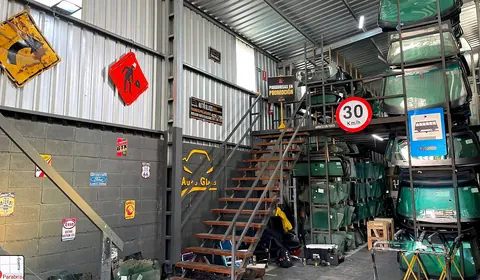
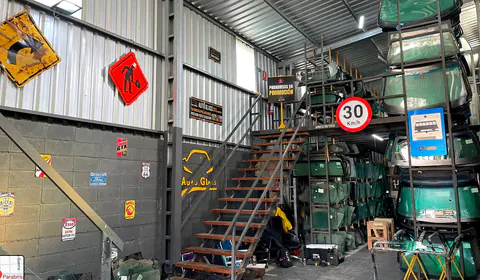
Correcciones: fotos HD, matrículas censuradas y simulador
- Fotos mejoradas a HD con super-resolución ESRGAN (UpscalerJS) y un
  acabado suave; nuevas versiones de 1440 y 1920 px.
- Matrículas difuminadas (Saveiro, Camaro, fachada y autos de fondo),
  también en la imagen para compartir.
- Simulador: el polarizado se actualiza al instante al elegir el tono
  (antes había que mover el auto); se quitan Tipo de lámina e Incluir
  parabrisas hasta tener información real.
- Se quitan las rayitas antes de los títulos de sección.

diff --git a/src/components/simulator/SimulatorSection.tsx b/src/components/simulator/SimulatorSection.tsx
@@ -5,7 +5,7 @@ import { useCallback, useEffect, useRef, useState } from 'react';
 import { useReducedMotionPref } from '@/components/ui/useMediaQuery';
 import model from '@/data/model.json';
 import { business } from '@/data/business';
-import { FILM_TYPES, TINT_LEVELS } from '@/data/options';
+import { TINT_LEVELS } from '@/data/options';
 import { useQuote } from '@/components/quote/QuoteContext';
 import { Reveal, SectionHeading } from '@/components/ui/Reveal';
 import { IconArrowRight, IconChevronLeft, IconChevronRight, IconEye, IconRotate, IconWhatsApp, IconX } from '@/components/ui/Icons';
@@ -181,7 +181,7 @@ export function SimulatorSection() {
               Mirá cómo te queda <span className="text-brand">antes de decidir</span>
             </>
           }
-          intro="Girá el auto, elegí el tono y la lámina, y mirá desde el asiento del conductor. También podés ver cómo queda un parabrisas cambiado."
+          intro="Girá el auto, elegí el tono de polarizado y mirá desde el asiento del conductor. También podés ver cómo queda un parabrisas cambiado."
         />
 
         <div className="grid gap-6 lg:grid-cols-[1.6fr_1fr]">
@@ -333,37 +333,6 @@ export function SimulatorSection() {
               </p>
             </div>
 
-            <div>
-              <h3 id="lamina-label" className="font-display text-xl font-bold uppercase tracking-wide">
-                Tipo de lámina
-              </h3>
-              <div role="radiogroup" aria-labelledby="lamina-label" className="mt-3 flex flex-wrap gap-2">
-                {FILM_TYPES.map((f) => (
-                  <button key={f.value} type="button" role="radio" aria-checked={state.film === f.value} className="chip" onClick={() => update({ film: f.value })}>
-                    {f.label}
-                  </button>
-                ))}
-              </div>
-              <p className="mt-2 text-sm text-mist">{FILM_TYPES.find((f) => f.value === state.film)?.description}</p>
-            </div>
-
-            <div>
-              <label className="flex min-h-11 cursor-pointer items-center justify-between gap-4">
-                <span className="font-semibold">Incluir parabrisas</span>
-                <input
-                  type="checkbox"
-                  role="switch"
-                  checked={state.includeWindshield}
-                  onChange={(e) => update({ includeWindshield: e.target.checked })}
-                  className="peer sr-only"
-                />
-                <span
-                  aria-hidden
-                  className="relative h-7 w-12 shrink-0 rounded-full bg-steel transition-colors peer-checked:bg-brand peer-focus-visible:outline-3 peer-focus-visible:outline-offset-2 peer-focus-visible:outline-brand after:absolute after:top-1 after:left-1 after:h-5 after:w-5 after:rounded-full after:bg-snow after:transition-transform peer-checked:after:translate-x-5"
-                />
-              </label>
-              <p className="mt-1 text-sm text-mist">El polarizado del parabrisas está regulado. Consultanos qué está permitido.</p>
-            </div>
 
             <div className="grid gap-2 sm:grid-cols-2 lg:grid-cols-1 xl:grid-cols-2">
               {state.view === 'interior' ? (
@@ -411,7 +380,6 @@ export function SimulatorSection() {
                   openQuote({
                     service: 'Polarizado',
                     tint: state.tint === 'none' ? 'asesoramiento' : state.tint,
-                    film: state.film,
                     glassScope: 'laterales-luneta',
                     source: 'simulador',
                   })

diff --git a/scripts/upscale/index.html b/scripts/upscale/index.html
@@ -1,0 +1,26 @@
+<!doctype html>
+<html>
+  <head>
+    <meta charset="utf-8" />
+    <script src="/node_modules/@tensorflow/tfjs/dist/tf.min.js"></script>
+    <script src="/node_modules/upscaler/dist/browser/umd/upscaler.min.js"></script>
+    <script src="/node_modules/@upscalerjs/esrgan-thick/dist/umd/models/esrgan-thick/src/x2/index.min.js"></script>
+    <script src="/node_modules/@upscalerjs/esrgan-thick/dist/umd/models/esrgan-thick/src/x3/index.min.js"></script>
+    <script src="/node_modules/@upscalerjs/esrgan-thick/dist/umd/models/esrgan-thick/src/x4/index.min.js"></script>
+  </head>
+  <body>
+    <script>
+      const defs = { 2: ESRGANThick2x, 3: ESRGANThick3x, 4: ESRGANThick4x };
+      const cache = {};
+      window.upscaleImage = async (src, scale) => {
+        if (!cache[scale]) {
+          const d = defs[scale];
+          cache[scale] = new Upscaler({ model: { ...d, path: `/node_modules/@upscalerjs/esrgan-thick/models/x${scale}/model.json` } });
+          await cache[scale].getModel();
+        }
+        return cache[scale].upscale(src, { output: 'base64', patchSize: 96, padding: 6, awaitNextFrame: true });
+      };
+      window.ready = true;
+    </script>
+  </body>
+</html>

diff --git a/src/components/simulator/CarScene.tsx b/src/components/simulator/CarScene.tsx
@@ -132,6 +132,13 @@ function Car({ url, state, capture, onLoaded }: { url: string; state: SimState; 
 
   useEffect(() => onLoaded(mats), [mats, onLoaded]);
 
+  // Con frameloop="demand" hay que pedir un cuadro cuando cambia el tono;
+  // si no, el cambio recién se veía al mover el auto.
+  const invalidate = useThree((s) => s.invalidate);
+  useEffect(() => {
+    invalidate();
+  }, [state.tint, state.film, state.includeWindshield, invalidate]);
+
   // Transición suave del tono
   const targetColor = useMemo(() => new THREE.Color(), []);
   useFrame((s, dt) => {

diff --git a/src/app/globals.css b/src/app/globals.css
@@ -86,13 +86,6 @@
     text-transform: uppercase;
     color: var(--color-brand);
   }
-  .eyebrow::before {
-    content: '';
-    width: 1.75rem;
-    height: 3px;
-    background: var(--color-brand);
-    transform: skewX(-20deg);
-  }
 
   /* Botones */
   .btn {

diff --git a/README.md b/README.md
@@ -55,18 +55,27 @@ Si `worksWithInsurance` o `homeService` se ponen en `false`, se ocultan solos el
 
 ## Fotos
 
-Las fotos originales van en `Fotos/` (**no se suben al repositorio**). El script las recorta, les sube un poco el contraste y genera WebP en varios anchos en `public/img/`, junto con el manifiesto `src/data/images.json`, el favicon y la imagen para compartir (`public/og-image.jpg`).
+Las fotos originales van en `Fotos/` (**no se suben al repositorio**). La lista de fotos, con su recorte, el factor de mejora y las matrículas a censurar, está en `scripts/images.config.mjs`.
 
-```bash
-npm run images
-```
+1. **Mejora a HD (opcional):** las fotos actuales son capturas de Instagram y Maps. Se les aplica super-resolución con ESRGAN (UpscalerJS, en la GPU vía Playwright) y quedan en `Fotos/hd/<name>.png`. Las dependencias están aparte para no cargar el build de Netlify:
+   ```bash
+   cd scripts/upscale && npm install && cd ../..
+   node --max-old-space-size=6144 scripts/upscale/run.mjs            # todas
+   node --max-old-space-size=6144 scripts/upscale/run.mjs hero-colocacion   # una sola
+   ```
+2. **Procesar:**
+   ```bash
+   npm run images
+   ```
+   Usa la versión HD si existe y, si no, el recorte de la captura. Les da un acabado suave (contraste y nitidez), **difumina las matrículas** y genera WebP de 480 a 1920 px en `public/img/`. También genera `src/data/images.json`, el favicon y `public/og-image.jpg`.
 
 **Para agregar o reemplazar una foto:**
 
 1. Copiá el archivo a `Fotos/`.
-2. En `scripts/process-images.mjs`, agregá o editá la entrada `{ name, source, crop }`. Si la foto es original (no es una captura), sacá `crop`.
-3. Corré `npm run images`.
-4. Usá el `name` en `src/data/services.ts` o `src/data/gallery.ts`.
+2. Agregá o editá su entrada en `scripts/images.config.mjs`. Si es una foto original y no una captura, sacá `crop` y `scale`.
+3. Si se ven matrículas, agregá `plates: [{ x, y, w, h }]`, en fracciones de 0 a 1 de la imagen.
+4. Corré `npm run images`.
+5. Usá el `name` en `src/data/services.ts` o `src/data/gallery.ts`.
 
 No repitas una misma foto en dos secciones.
 
@@ -81,6 +90,7 @@ No repitas una misma foto en dos secciones.
 - Modelo optimizado: `public/models/auto.glb` (1,7 MB). El original (`modelocarro/`, 43 MB) no se sube.
 - **Rendimiento:**
   - Se descarga solo cuando la sección se acerca a la pantalla, con barra de progreso real.
+  - Hoy el simulador muestra solo el selector de tono. El tipo de lámina y la opción de incluir el parabrisas están desactivados hasta tener información real: el código sigue en `tint.ts` y `CarScene.tsx`.
   - Renderiza bajo demanda (`frameloop="demand"`) y se pausa fuera de pantalla.
   - En celular, el auto no captura el scroll hasta tocar "Tocá para girar el auto".
 - **Versión liviana:** si no hay WebGL, si el render es por software o si el equipo tiene poca memoria o CPU (o ahorro de datos), se muestra con imágenes del auto en 6 ángulos y el polarizado como una capa enmascarada sobre los vidrios. Se puede forzar con `?sim=2d` y forzar el 3D con `?sim=3d`.

diff --git a/PENDIENTES.md b/PENDIENTES.md
@@ -14,6 +14,7 @@ Cada punto indica **qué** falta y **dónde** se cambia.
 | 1.3 | **¿Cuándo se puede manejar después del cambio?** (tiempo de curado del adhesivo). | `src/data/faq.ts` | `[CONFIRMAR CON EL CLIENTE]` |
 | 1.4 | **¿Cuánto dura el polarizado?** Garantía de cada línea de lámina. | `src/data/faq.ts` | `[CONFIRMAR CON EL CLIENTE]` |
 | 1.5 | **¿Qué tonos de polarizado están permitidos?** Normativa vigente, sobre todo en parabrisas y vidrios delanteros. No inventamos porcentajes legales. | `src/data/faq.ts` | `[CONFIRMAR CON EL CLIENTE]` + aviso en el simulador |
+| 1.6a | **Simulador: tipo de lámina e "incluir parabrisas"** quedaron ocultos hasta saber cómo se ve cada lámina y qué está permitido en el parabrisas. | `src/components/simulator/SimulatorSection.tsx` | Solo selector de tono |
 | 1.6 | **Características técnicas de las láminas** (Window Films, Nano Cerámico, Nano Carbon HP): rechazo de calor, UV, garantía, si alguna es "de seguridad". Las descripciones actuales son genéricas. | `src/data/options.ts` → `FILM_TYPES` | Descripciones cortas y genéricas |
 | 1.7 | **Zonas de domicilio sin costo:** Piriápolis, Maldonado, San Carlos y Rocha (sacado de una historia de Instagram). ¿Sigue vigente? ¿Punta del Este entra dentro de "Maldonado"? | `src/data/business.ts` → `homeServiceZones` | Esas 4 zonas |
 | 1.8 | **Seguros:** se usa "Gestionamos el cambio de tu parabrisas o cristal, gratis según tu cobertura" (de su publicación). ¿Con qué aseguradoras trabajan? Se podrían listar. | `src/components/sections/Insurance.tsx` | Texto genérico |
@@ -25,7 +26,7 @@ Cada punto indica **qué** falta y **dónde** se cambia.
 
 | # | Qué falta | Dónde | Nota |
 |---|---|---|---|
-| 2.1 | **Originales en alta resolución** de todas las fotos. Las actuales son capturas de pantalla de Instagram y Google Maps (entre 500 y 1270 px de ancho), recortadas para quitar la interfaz. | Poner en `Fotos/`, ajustar `scripts/process-images.mjs` y correr `npm run images` | La del hero (`hero-colocacion`, 503 × 860) es la más chica: en desktop se ve algo blanda |
+| 2.1 | **Originales en alta resolución** de todas las fotos. Las actuales son capturas de Instagram y Google Maps (entre 500 y 1270 px), mejoradas a HD con super-resolución (ESRGAN). La mejora ayuda, pero no reemplaza el original: la del hero es un cuadro de video y sigue algo blanda. | Poner en `Fotos/`, ajustar `scripts/images.config.mjs` y correr `npm run images` | Mejoradas a HD, con las matrículas censuradas |
 | 2.2 | **Foto real de un polarizado** terminado. Hoy la tarjeta "Polarizado" usa un render del simulador marcado como "Imagen ilustrativa". | `src/data/services.ts` (`polarizado` → `image`, quitar `illustrative`) | — |
 | 2.3 | **Más fotos de trabajos** para la galería (hoy 5). Idealmente pares **antes/después** del mismo vehículo, para sumar un slider comparativo. | `src/data/gallery.ts` | No hay pares antes/después |
 | 2.4 | **Foto de lunetas o laterales** colocados. Hoy se usa la VW Nivus de atrás. | `src/data/services.ts` | — |
